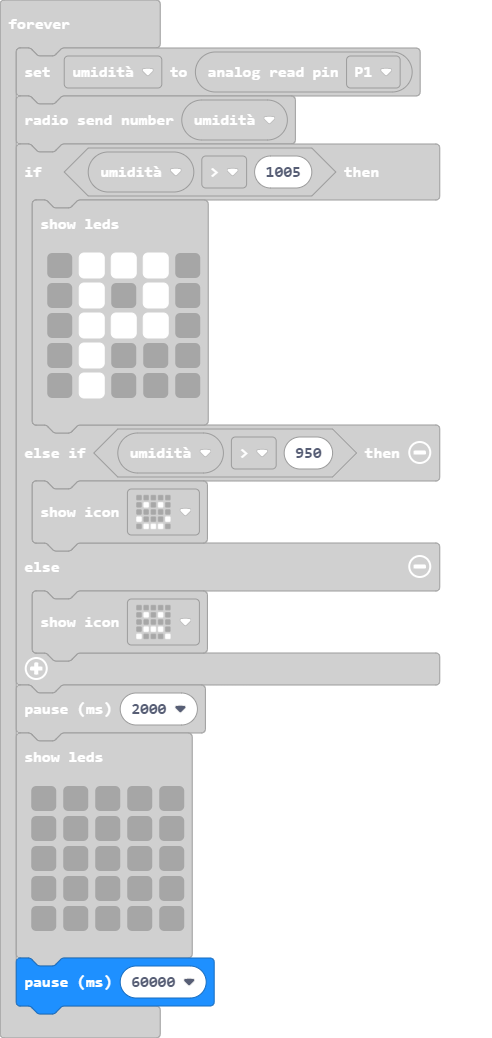
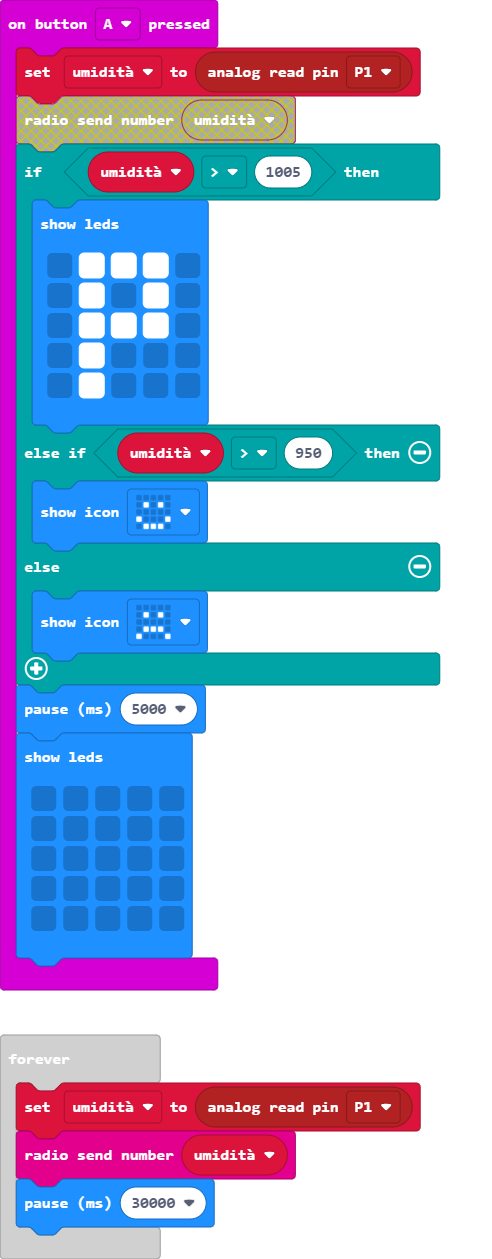
Update main.blocks, main.ts

diff --git a/main.ts b/main.ts
@@ -1,8 +1,5 @@
-let umidità = 0
-radio.setGroup(33)
-basic.forever(function () {
+input.onButtonPressed(Button.A, function () {
     umidità = pins.analogReadPin(AnalogPin.P1)
-    radio.sendNumber(umidità)
     if (umidità > 1005) {
         basic.showLeds(`
             . # # # .
@@ -16,7 +13,7 @@ basic.forever(function () {
     } else {
         basic.showIcon(IconNames.Sad)
     }
-    basic.pause(2000)
+    basic.pause(5000)
     basic.showLeds(`
         . . . . .
         . . . . .
@@ -24,5 +21,11 @@ basic.forever(function () {
         . . . . .
         . . . . .
         `)
-    basic.pause(60000)
+})
+let umidità = 0
+radio.setGroup(33)
+basic.forever(function () {
+    umidità = pins.analogReadPin(AnalogPin.P1)
+    radio.sendNumber(umidità)
+    basic.pause(30000)
 })
